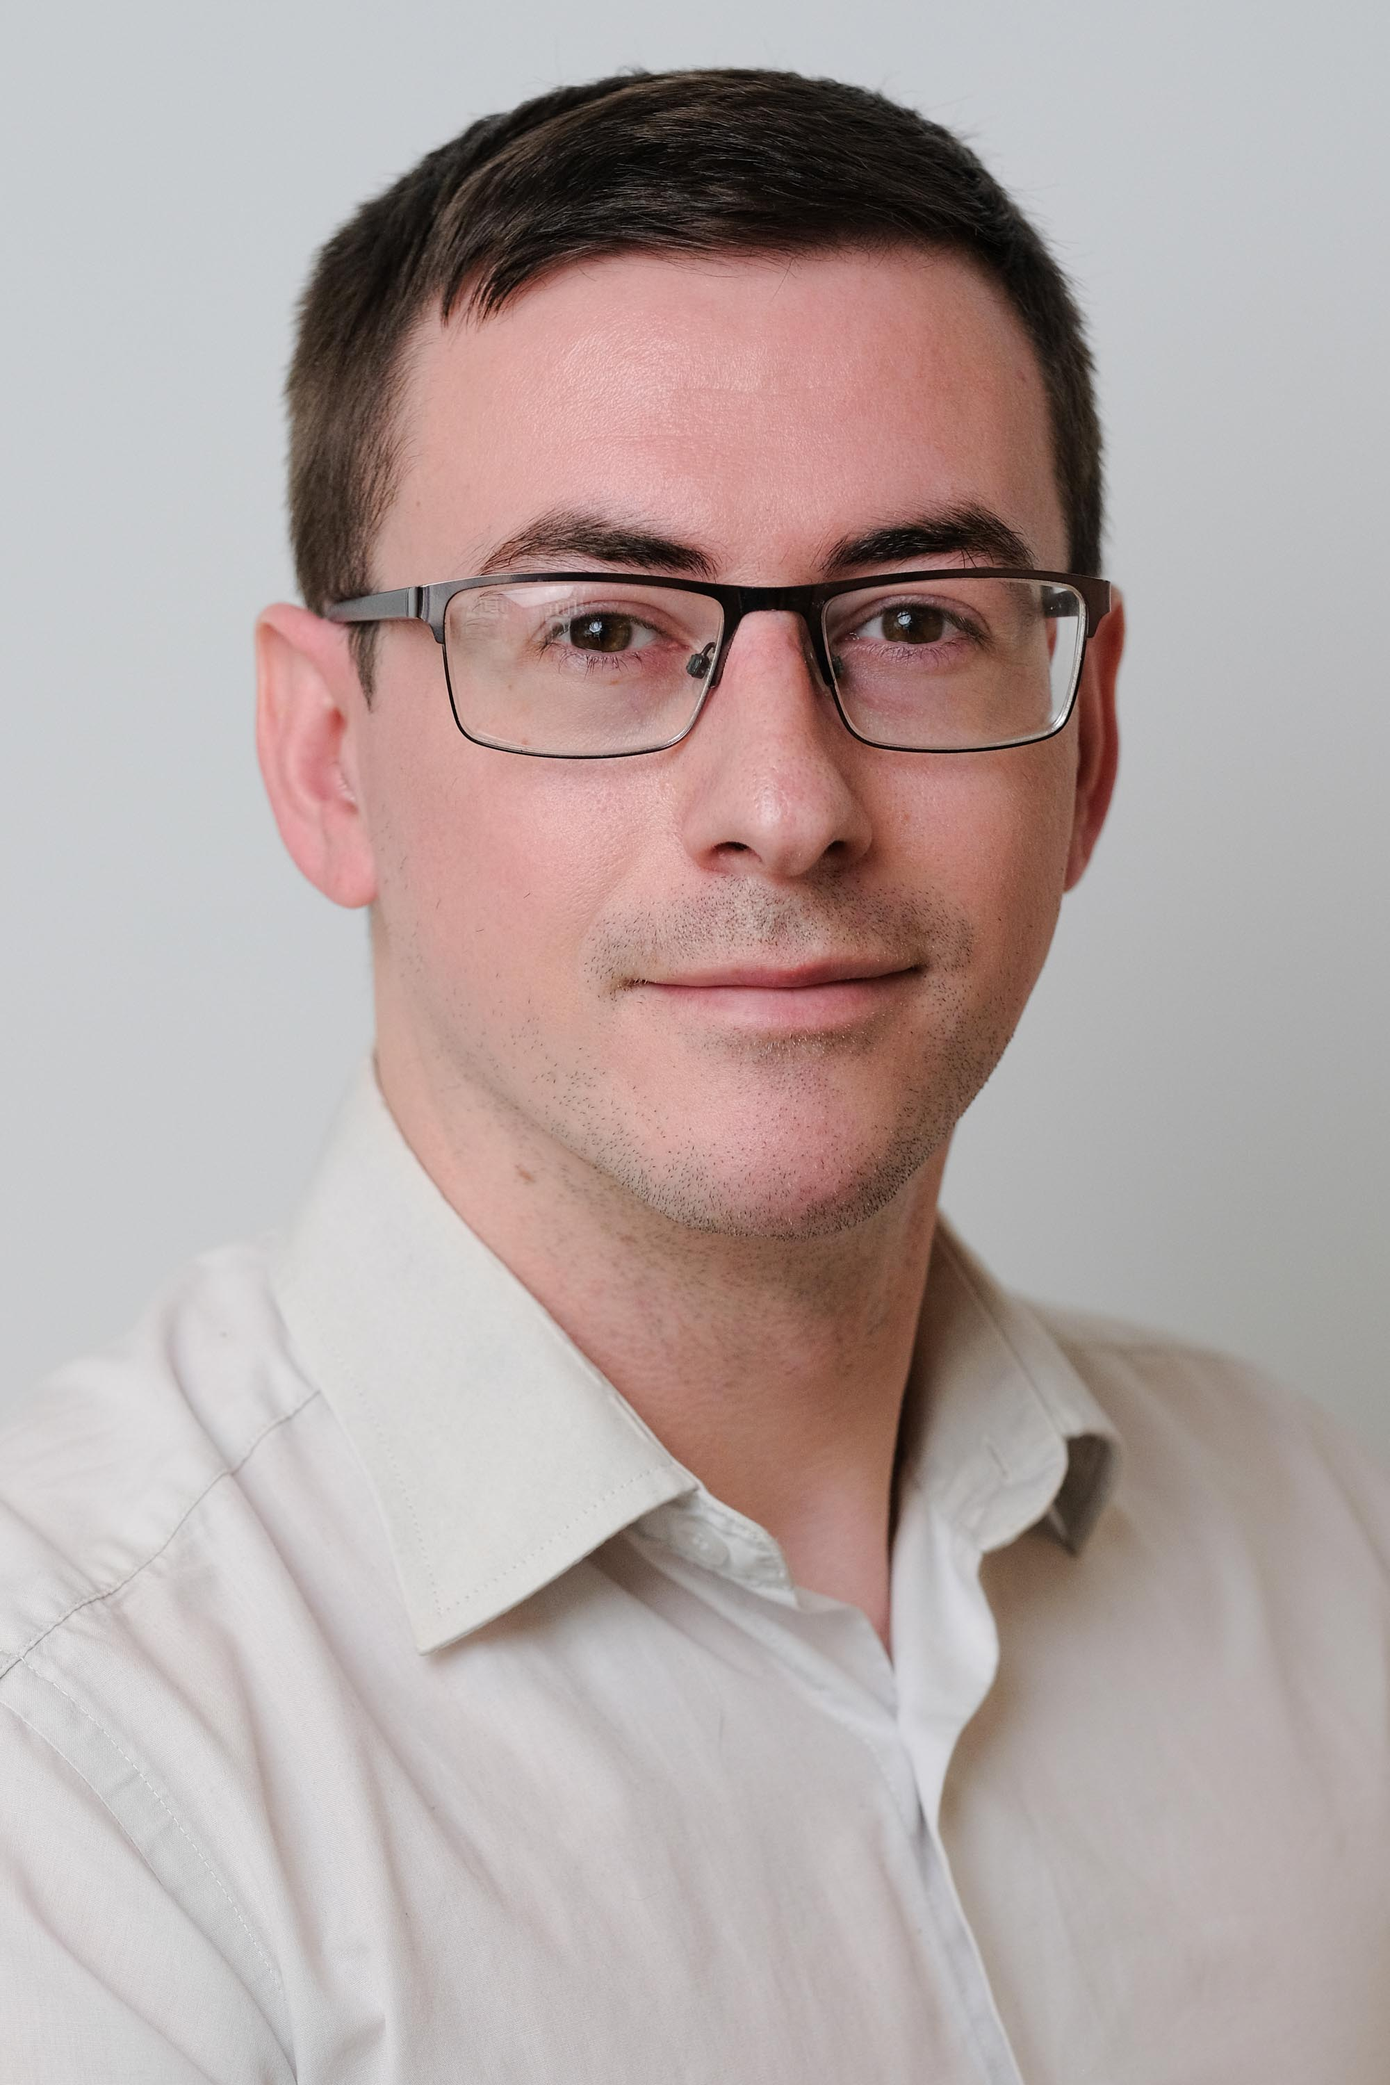
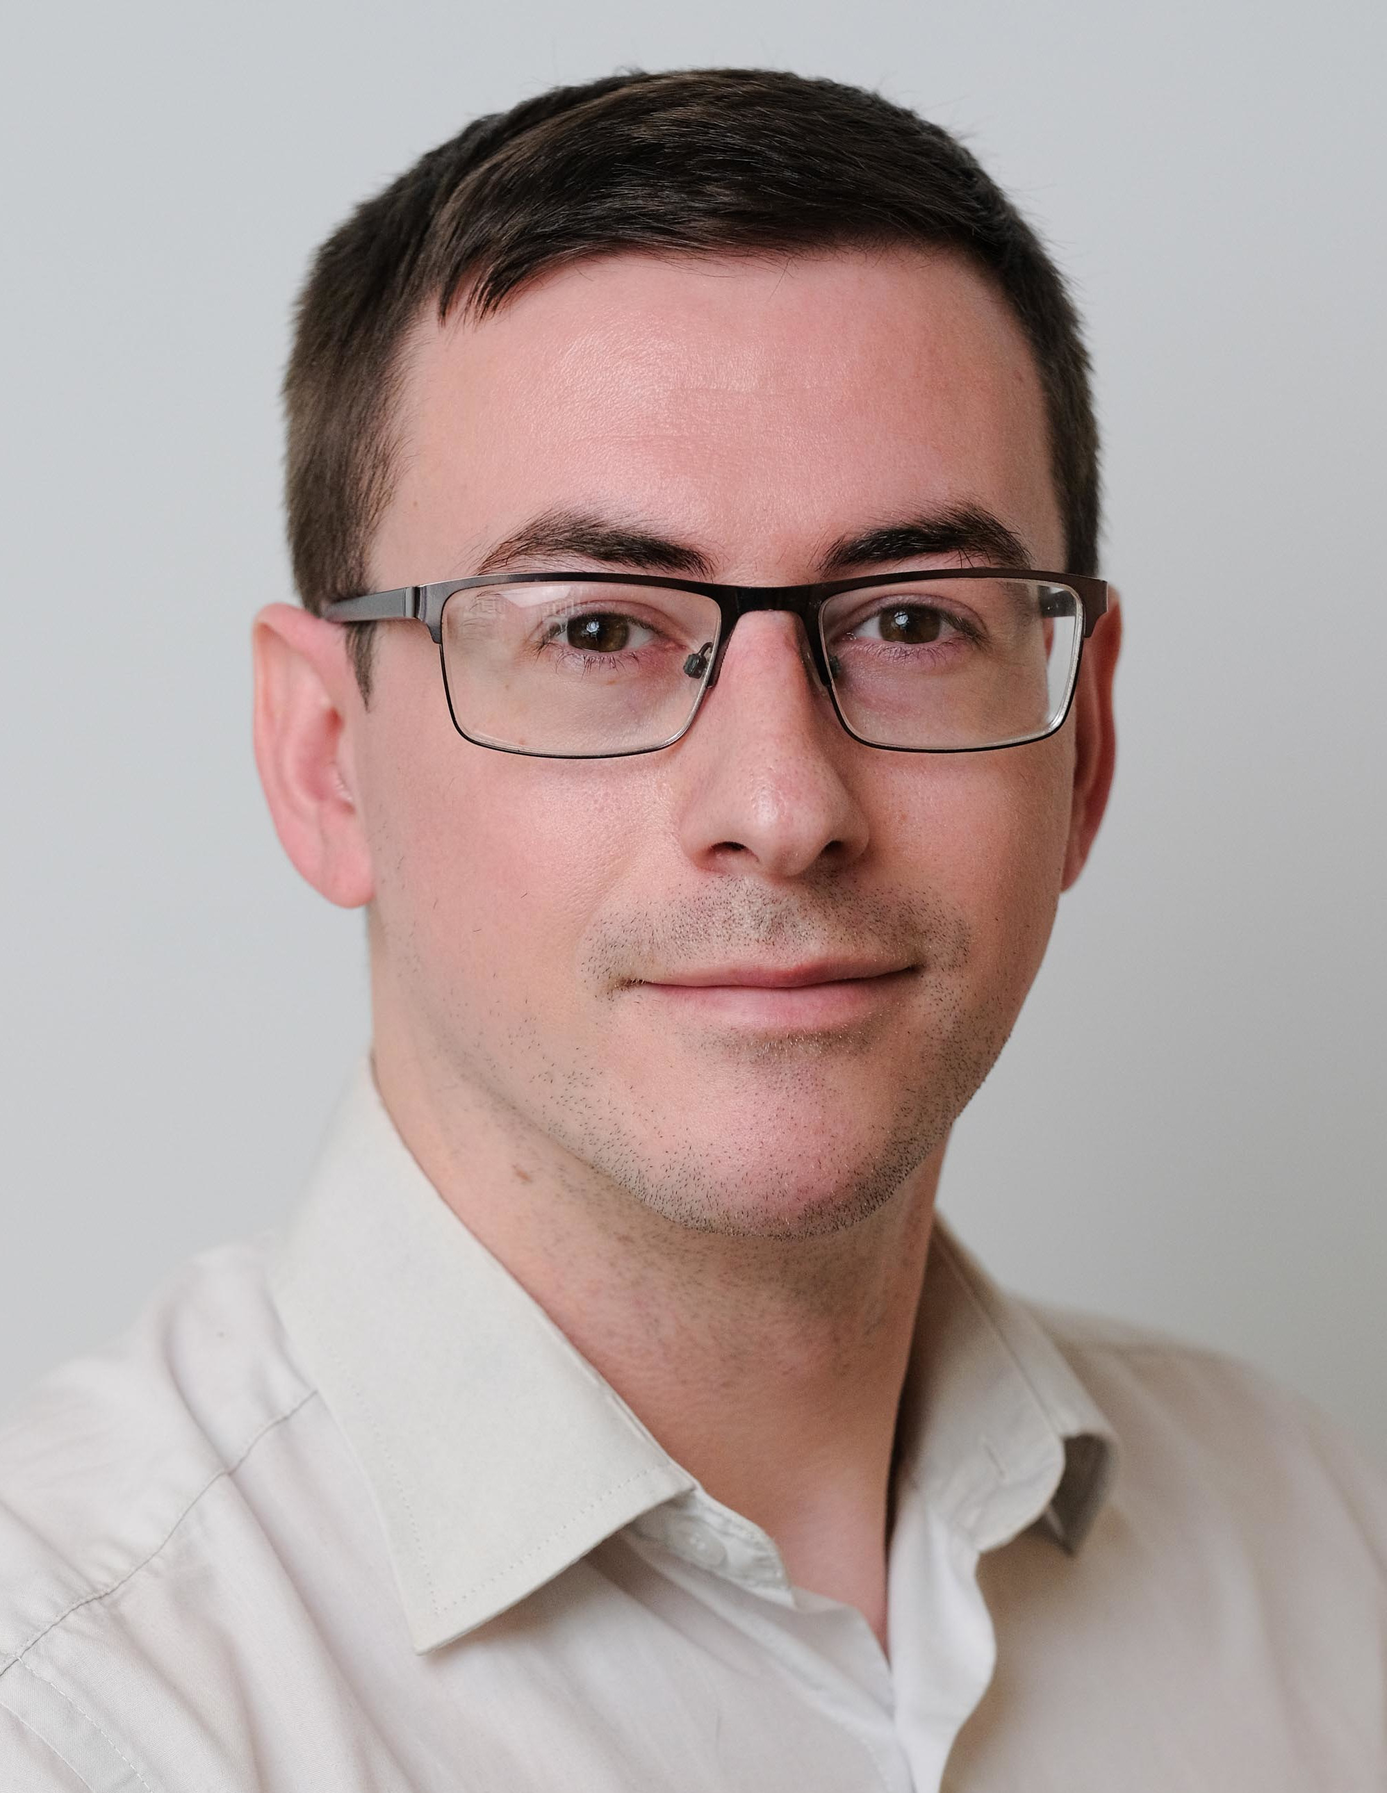
Added about me page

diff --git a/pages/privacy-policy.tsx b/pages/privacy-policy.tsx
@@ -7,7 +7,7 @@ const TermsAndConditions = () => {
     const PAGE_SEO: iSEO = {
         title: 'Privacy Policy',
         description: `This Privacy Policy applies only to our online activities and is valid for visitors to our website with regards to the information that they shared and/or collect in website`,
-        keywords: 'webexpx, contact us, webexpe13@gmail.com, next js blog template',
+        keywords: 'webexpx, contact me, webexpe13@gmail.com, next js blog template',
         author: 'Mayur Nalwala, Rupali Yadav'
     }
     return (
@@ -18,7 +18,7 @@ const TermsAndConditions = () => {
                 </Text>
                 <Text p>
                     At [Website_Name], accessible from [Website_URL], one of our main priorities is the privacy of our visitors. This Privacy Policy document contains types of information that is collected and recorded by [Website_Name] and how we use it. <br />
-                    If you have additional questions or require more information about our Privacy Policy, do not hesitate to contact us. <br />
+                    If you have additional questions or require more information about our Privacy Policy, do not hesitate to contact me. <br />
                     This Privacy Policy applies only to our online activities and is valid for visitors to our website with regards to the information that they shared and/or collect in [Website_Name]. This policy is not applicable to any information collected offline or via channels other than this website. Our Privacy Policy was created with the help of the Privacy Policy Generator.
                 </Text>
                 <Seperator line />
@@ -34,7 +34,7 @@ const TermsAndConditions = () => {
                 </Text>
                 <Text p> 
                     The personal information that you are asked to provide, and the reasons why you are asked to provide it, will be made clear to you at the point we ask you to provide your personal information. <br />
-                    If you contact us directly, we may receive additional information about you such as your name, email address, phone number, the contents of the message and/or attachments you may send us, and any other information you may choose to provide. <br />
+                    If you contact me directly, we may receive additional information about you such as your name, email address, phone number, the contents of the message and/or attachments you may send us, and any other information you may choose to provide. <br />
                     When you register for an Account, we may ask for your contact information, including items such as name, company name, address, email address, and telephone number.
                 </Text>
                 <Seperator line />
@@ -109,7 +109,7 @@ const TermsAndConditions = () => {
                     CCPA Privacy Rights (Do Not Sell My Personal Information)
                 </Text>
                 <Text p >
-                    Under the CCPA, among other rights, California consumers have the right to: <br /> Request that a business that collects a consumer's personal data disclose the categories and specific pieces of personal data that a business has collected about consumers. <br />Request that a business delete any personal data about the consumer that a business has collected. <br />Request that a business that sells a consumer's personal data, not sell the consumer's personal data. <br />If you make a request, we have one month to respond to you. If you would like to exercise any of these rights, please contact us.
+                    Under the CCPA, among other rights, California consumers have the right to: <br /> Request that a business that collects a consumer's personal data disclose the categories and specific pieces of personal data that a business has collected about consumers. <br />Request that a business delete any personal data about the consumer that a business has collected. <br />Request that a business that sells a consumer's personal data, not sell the consumer's personal data. <br />If you make a request, we have one month to respond to you. If you would like to exercise any of these rights, please contact me.
                 </Text>
                 <Seperator line />
                 <Text subtitle className="text-xl">
@@ -133,7 +133,7 @@ const TermsAndConditions = () => {
                             The right to data portability: You have the right to request that we transfer the data that we have collected to another organization, or directly to you, under certain conditions.
                         </li>
                     </ul><br />
-                    If you make a request, we have one month to respond to you. If you would like to exercise any of these rights, please contact us.
+                    If you make a request, we have one month to respond to you. If you would like to exercise any of these rights, please contact me.
                 </Text>
                 <Seperator line />
                 <Text subtitle className="text-xl">
@@ -141,7 +141,7 @@ const TermsAndConditions = () => {
                 </Text>
                 <Text p >
                     Another part of our priority is adding protection for children while using the internet. We encourage parents and guardians to observe, participate in, and/or monitor and guide their online activity. <br />
-                    [Website_Name] does not knowingly collect any Personal Identifiable Information from children under the age of 13. If you think that your child provided this kind of information on our website, we strongly encourage you to contact us immediately and we will do our best efforts to promptly remove such information from our records.
+                    [Website_Name] does not knowingly collect any Personal Identifiable Information from children under the age of 13. If you think that your child provided this kind of information on our website, we strongly encourage you to contact me immediately and we will do our best efforts to promptly remove such information from our records.
                 </Text>
             </div>
         </PageLayout>

diff --git a/pages/about-me.tsx b/pages/about-me.tsx
@@ -1,0 +1,87 @@
+/**These are necessary imports / components for the page */
+import { ImageSize, TextAlign, ListType } from "../src/shared/enums";
+import { PageLayout, Text, List, Image, LinkTo, Seperator, Slider } from "../src/components";
+import { CURRENT_YEAR } from "../src/constants/appConstants";
+import { iSEO } from "../src/shared/interfaces";
+
+const AboutUs = () => {
+    const PAGE_SEO: iSEO = {
+        title: 'About Me',
+        description: `Hi I am Noel Wilson. This is my portfilio / blog website.`,
+        keywords: 'noel wilson, noel, wilson, python, typescript, blog',
+        author: 'Noel Wilson'
+    }
+    return (
+        <PageLayout PAGE_SEO={PAGE_SEO} home>
+            <section className='container px-3 md:pb-20 md:pt-10 pt-20'>
+                <a href="https://noel-wilson.co.uk/" target="_blank" rel="noopener noreferrer" className="block md:w-[15%] w-[50%] ">
+                    <img src="/images/headshot.jpg" alt="noel wilson" className="rounded-lg overflow-hidden float-left mr-5" />
+                </a>
+                <div className="text">
+                    <Text title className='mb-5 mt-10 dark:text-sky-400 text-sky-600'>
+                        Hello! I'm Noel Wilson!
+                    </Text>
+                    <Text subtitle className='text-xl mb-5'>
+                        I'm a full stack, an engineering lead and mentor.
+                    </Text>
+
+                    <Text p className='text-lg'>
+                        I have been working in the tech industry for over 10 years, working end to end on various projects building web applications, APIs, event driven systems and also data pipelines. I am an expert with various technologies like Python, TypeScript, React, Terraform and multiple CI/CD platforms.
+                    </Text>
+                </div>
+
+                <div className="flex flex-wrap justify-between">
+                    <div className="md:w-auto w-full my-5">
+                        <Text subtitle className='text-3xl font-medium'>
+                            Skills
+                        </Text>
+                        <List type={ListType.disc}>
+                            <li>Proficent with AWS, GCP and Azure</li>
+                            <li>Cloud Architecture Experience</li>
+                            <li>APIs and event driven Architecture Specialist</li>
+                            <li>Severless & Container Services Expert</li>
+                            <li>Team building and Mentoring</li>
+                        </List>
+                    </div>
+
+                    <div className="md:w-auto w-full my-5">
+                        <Text subtitle className='text-3xl font-medium'>
+                            Philosophy
+                        </Text>
+                        <List type={ListType.disc}>
+                            <li>Attitude > Aptitude</li>
+                            <li>Flexibility > Correctness</li>
+                            <li>Product > Technology</li>
+                            <li>Automation > Manual Process</li>
+                            <li>Strategic > Tacical</li>
+                        </List>
+                    </div>
+
+                    <div className="md:w-auto w-full my-5">
+                        <Text subtitle className='text-3xl font-medium'>
+                            Weaknesses
+                        </Text>
+                        <List type={ListType.disc}>
+                            <li style={{ transform: 'translate(0px, 0px) rotate(25deg)', transformOrigin: 'left' }}>CSS</li>
+                            <li>Bad jokes</li>
+                        </List>
+                    </div>
+                </div>
+                <Seperator />
+                <Text subtitle className='text-3xl font-medium'>
+                    Location
+                </Text>
+                <Text p className='text-lg'>
+                    I'm located in Essex near London and work mostly in London.
+                </Text>
+                <div className="px-4 py-3 dark:bg-slate-800 bg-blue-200 rounded my-5">
+                    <Text p className="!text-lg leading-relaxed mb-0">
+                        If you'd like to contact me please feel free to email me at: <u>jwnwilson@hotmail.co.uk</u>.
+                    </Text>
+                </div>
+            </section>
+        </PageLayout>
+    )
+}
+
+export default AboutUs

diff --git a/BLOG_CONSTANTS/_BLOG_SETUP.tsx b/BLOG_CONSTANTS/_BLOG_SETUP.tsx
@@ -109,24 +109,13 @@ export const PRIMARY_NAV: iNavSetup = {
             path: ''
         },
         {
-            label: 'About Us',
-            path: '/about-us'
-        },
-        {
-            // to open a link in new tab pass newTab: true
-            label: 'Support Us',
-            path: 'https://www.buymeacoffee.com/webexpe13z',
-            newTab: true
-        },
-        {
-            label: 'Github Repo',
-            path: 'https://github.com/webexpe13/blog-template-using-nextjs-typescript-tailwindcss',
-            newTab: true
-        },
-        {
-            label: 'Contact Us',
-            path: '/contact-us'
+            label: 'About Me',
+            path: '/about-me'
         }
+        // {
+        //     label: 'Contact Me',
+        //     path: '/contact-me'
+        // }
     ],
     // sideNavLinks are the links which appear when you open the side menu after clicking the burger menu icon.
     sideNavLinks: [
@@ -141,23 +130,23 @@ export const PRIMARY_NAV: iNavSetup = {
             path: ''
         },
         {
-            label: 'About Us',
-            path: '/about-us'
+            label: 'About Me',
+            path: '/about-me'
         },
-        {
-            label: 'Support Us',
-            path: 'https://www.buymeacoffee.com/webexpe13z',
-            newTab: true
-        },
-        {
-            label: 'Github Repo',
-            path: 'https://github.com/webexpe13/blog-template-using-nextjs-typescript-tailwindcss',
-            newTab: true
-        },
-        {
-            label: 'Contact Us',
-            path: '/contact-us'
-        }
+        // {
+        //     label: 'Support Us',
+        //     path: 'https://www.buymeacoffee.com/webexpe13z',
+        //     newTab: true
+        // },
+        // {
+        //     label: 'Github Repo',
+        //     path: 'https://github.com/webexpe13/blog-template-using-nextjs-typescript-tailwindcss',
+        //     newTab: true
+        // },
+        // {
+        //     label: 'Contact Me',
+        //     path: '/contact-me'
+        // }
     ],
     socials: [
         {

diff --git a/pages/contact-me.tsx b/pages/contact-me.tsx
@@ -5,16 +5,16 @@ import { iSEO } from "../src/shared/interfaces";
 
 const ContactUs = () => {
     const PAGE_SEO: iSEO = {
-        title: 'Contact Us',
+        title: 'Contact Me',
         description: 'For any any queries related to this project / template feel free to connect with us on webexpe13@gmail.com',
-        keywords: 'webexpx, contact us, webexpe13@gmail.com, next js blog template',
+        keywords: 'webexpx, contact me, webexpe13@gmail.com, next js blog template',
         author: 'Mayur Nalwala, Rupali Yadav'
     } 
     return (
         <PageLayout PAGE_SEO={PAGE_SEO} home>
             <section className='container px-3 pb-10 md:pt-20 pt-[80px]'>
                 <Text title className="!text-5xl !font-light">
-                    Contact Us
+                    Contact Me
                 </Text>
 
                 <div className="flex flex-wrap mt-8 justify-between">
@@ -41,7 +41,7 @@ const ContactUs = () => {
                     Work with us . . .
                 </Text>
                 <Text p className="!text-lg leading-relaxed mt-5 px-1">
-                    We are a group of developers and designers with more than 5 years of industry experience. If you have any requirements like Website Development, Website / App Design feel free to contact us on the given email.
+                    We are a group of developers and designers with more than 5 years of industry experience. If you have any requirements like Website Development, Website / App Design feel free to contact me on the given email.
                 </Text>
             </section>
         </PageLayout>

diff --git a/pages/index.tsx b/pages/index.tsx
@@ -30,7 +30,7 @@ const Home = () => {
             <a href="https://github.com/jwnwilson" target="_blank" rel="noopener noreferrer" className='flex items-center justify-center rounded-md bg-blue-600 px-4 pb-2 text-white hover:text-white shadow-lg hover:shadow-none transition-all mb-3 md:mx-5 mx-2'>
               <span className='text-xl pt-2 block'>Github</span>
             </a>
-            <LinkTo href="/pages/about-us.tsx" passHref className='flex items-center justify-center rounded-md bg-blue-600 px-4 pb-2 text-white hover:text-white shadow-lg hover:shadow-none transition-all mb-3 md:mx-5 mx-2'>
+            <LinkTo href="/pages/about-me.tsx" passHref className='flex items-center justify-center rounded-md bg-blue-600 px-4 pb-2 text-white hover:text-white shadow-lg hover:shadow-none transition-all mb-3 md:mx-5 mx-2'>
               <span className='text-xl pt-2 block'>About</span>
             </LinkTo>
             <LinkTo href="/pages/tutorial/all-components.tsx" passHref className='flex items-center justify-center rounded-md bg-blue-600 px-4 pb-2 text-white hover:text-white shadow-lg hover:shadow-none transition-all mb-3 md:mx-5 mx-2'>

diff --git a/pages/tutorial/home-layout.tsx b/pages/tutorial/home-layout.tsx
@@ -15,7 +15,7 @@ const HomeLayoutExample = () => {
                     This example/demo page is written in Default Home Page Layout. <br />
                     This is the layout we have used to create
                     <LinkTo href="/" passHref> Home</LinkTo>,
-                    <LinkTo href="/pages/about-us.tsx" passHref> About</LinkTo>,
+                    <LinkTo href="/pages/about-me.tsx" passHref> About</LinkTo>,
                     <LinkTo href="/pages/tutorial/icons.tsx" passHref> Icons</LinkTo>,
                     <LinkTo href="/pages/privacy-policy.tsx" passHref> Privacy Policy</LinkTo>,
                     <LinkTo href="/pages/terms-and-condition.tsx" passHref> Terms & Conditions </LinkTo> pages.

diff --git a/src/constants/codeBlocks.tsx b/src/constants/codeBlocks.tsx
@@ -235,15 +235,9 @@ export const NavbarSetup_NAVLINKS = `
                 type: 'dropdown'
             },
             {
-                label: 'About Us',
-                path: '/about-us'
-            },
-            {
-                // to open a link in new tab pass newTab: true
-                label: 'Support Us',
-                path: 'https://www.buymeacoffee.com/webexpe13z',
-                newTab: true
-            },
+                label: 'About Me',
+                path: '/about-me'
+            }
         ]
     }
 `;

diff --git a/pages/terms-and-condition.tsx b/pages/terms-and-condition.tsx
@@ -8,7 +8,7 @@ const TermsAndConditions = () => {
     const PAGE_SEO: iSEO = {
         title: 'Terms and conditions',
         description: `These terms and conditions outline the rules and regulations for the use of Website, located at ${WEBSITE_URL}.`,
-        keywords: 'webexpx, contact us, webexpe13@gmail.com, next js blog template',
+        keywords: 'webexpx, contact me, webexpe13@gmail.com, next js blog template',
         author: 'Mayur Nalwala, Rupali Yadav'
     }    
     return (

diff --git a/pages/tutorial/icons.tsx b/pages/tutorial/icons.tsx
@@ -49,7 +49,7 @@ const HowToUseDiffGroupIcons = `
 const Icons = () => {
     const PAGE_SEO: iSEO = {
         title: 'Icons',
-        keywords: 'webexpx, contact us, webexpe13@gmail.com, next js blog template',
+        keywords: 'webexpx, contact me, webexpe13@gmail.com, next js blog template',
         author: 'Mayur Nalwala, Rupali Yadav'
     }
     return (
